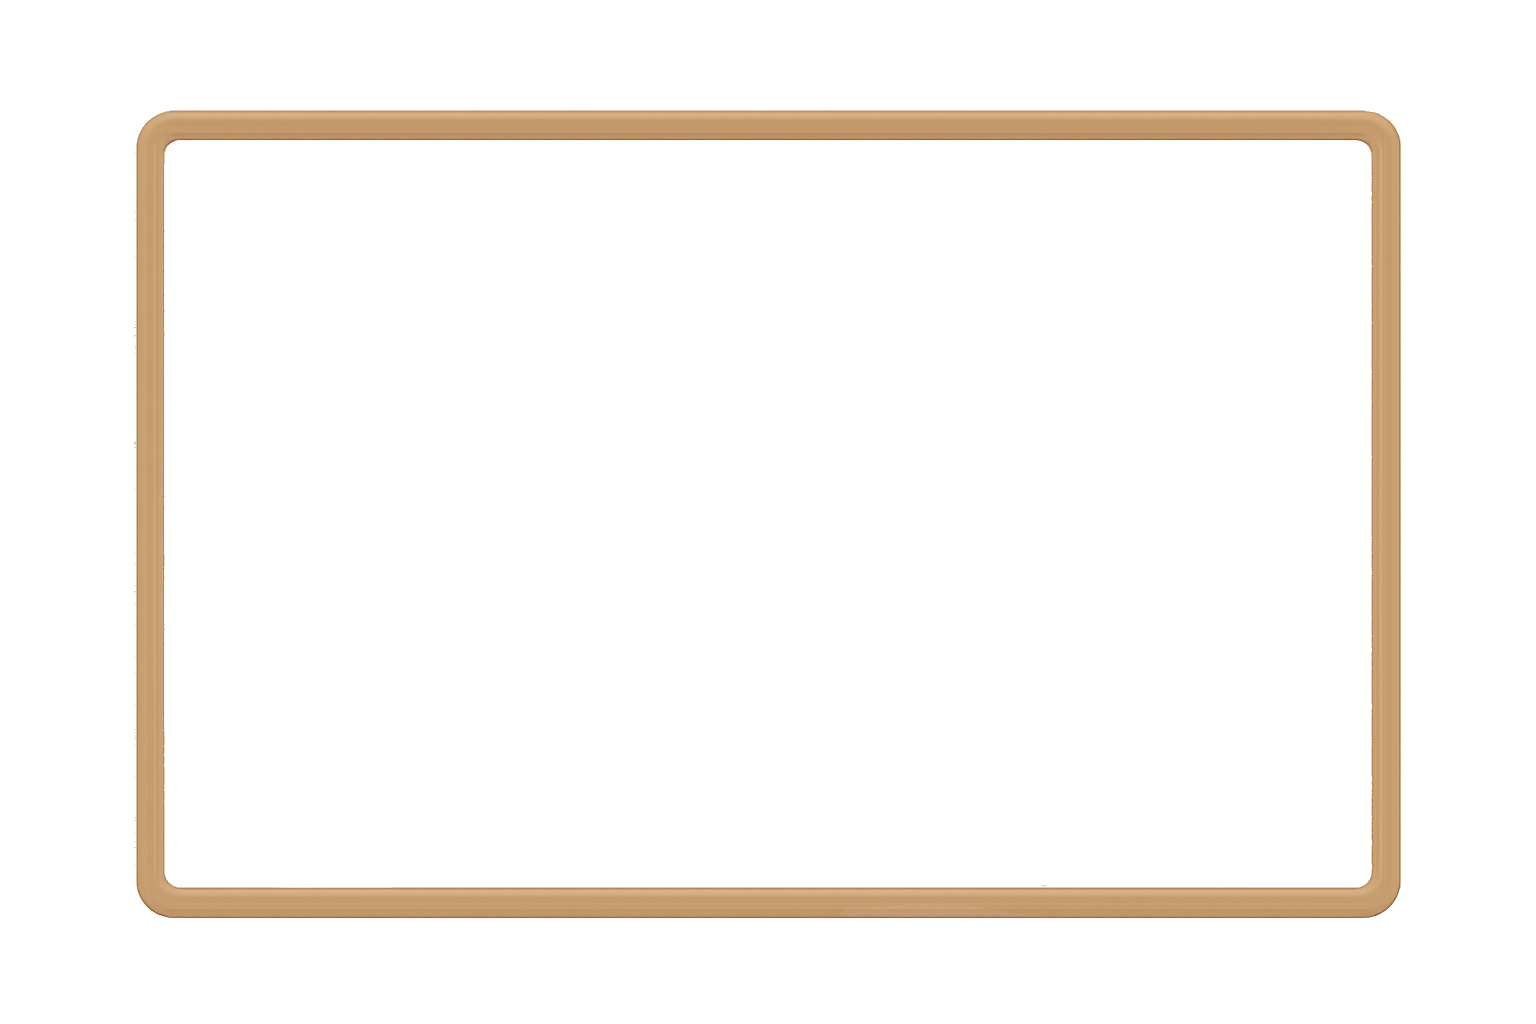
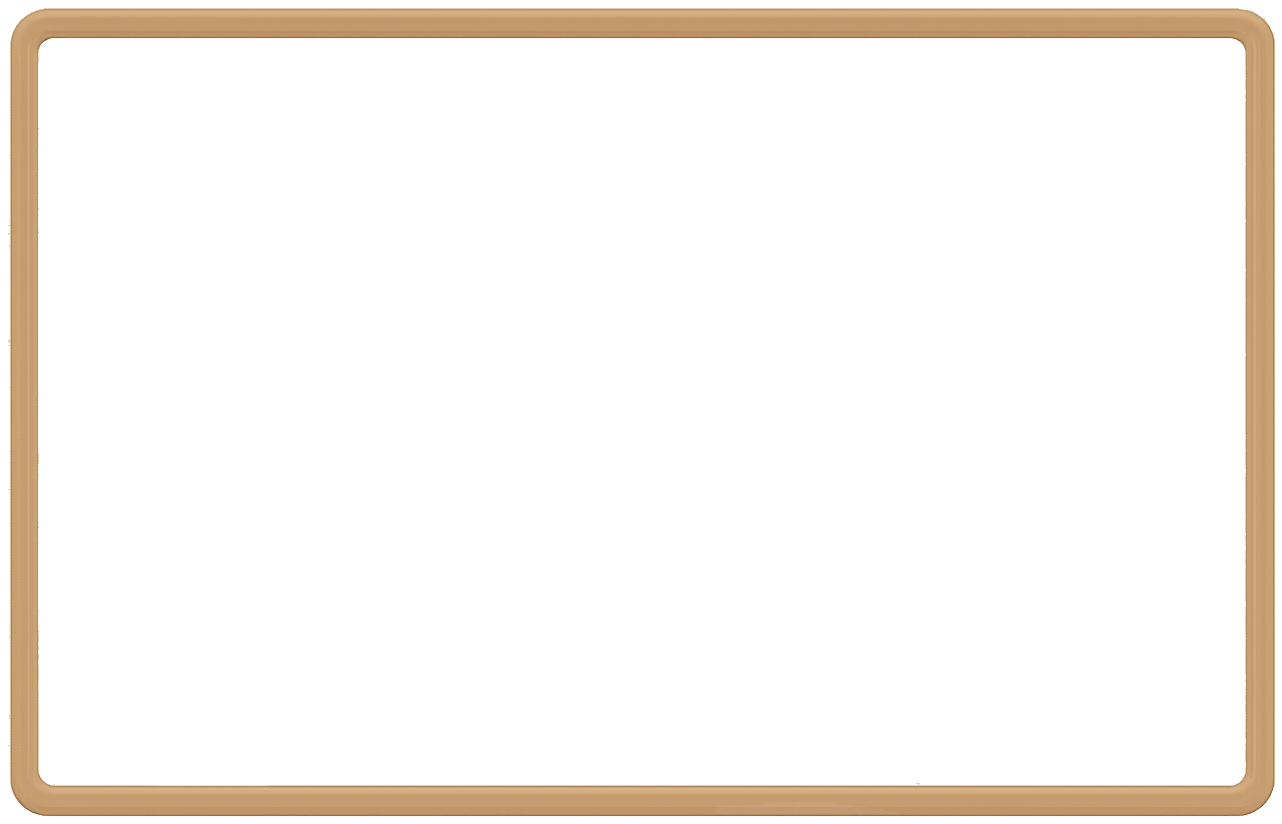
Adjusted the game window size based on current window size. Recipe Scroll not yet adjusted.

Changed region(s): [[0.0624, 0.091, 0.936, 0.9102], [0.0, 0.0, 0.9984, 1.0]]

diff --git a/style.css b/style.css
@@ -32,62 +32,79 @@ main {
   flex: 1;
   display: flex;
   justify-content: center;
-  align-items: flex-start;
-  gap: 20vw; /* was 400px */
+  align-items: center;
+  position: relative;
 }
 
-#gameCanvas {
-  border: 0.vw solid red;
-  border-radius: 0px; 
+#layoutShell {
   position: absolute;
   top: 50%;
   left: 50%;
+  width: 1710px;
+  height: 824px;
   transform: translate(-50%, -50%);
-  display: flex;
+  --shell-scale: 1;
+}
+
+#gameShell {
+  position: absolute;
+  top: 0;
+  left: 0;
+  width: 1282px;
+  height: 824px;
+}
+
+#gameCanvas {
+  border: 0 solid red;
+  border-radius: 0px;
+  position: absolute;
+  top: 33px;
+  left: 33px;
+  width: 1218px;
+  height: 757px;
+  display: block;
   z-index: 1;
 }
 
 #recipeScroll {
-  position: relative;
-  left: 40.5vw; /* was 800px */
-  top: 15%;
-  width: 10vw; /* was 300px */
+  position: absolute;
+  left: 1290px;
+  top: 24px;
+  width: 420px;
   z-index: 10;
 
   display: none;
   flex-direction: column;
   align-items: center;
-  transform: scale(1);
+  pointer-events: none;
 }
 
 #scrollImage {
-  width: 22vw; /* was 140% of container */
+  width: 100%;
   height: auto;
   display: block;
 }
 
 #recipeText {
-  width: 130%;
-  margin-top: -21.5vw; /* was -420px */
+  position: absolute;
+  top: 108px;
+  left: 44px;
+  width: 330px;
+  max-height: 500px;
+  overflow: hidden;
   color: #4b2d0f;
   font-family: 'IM Fell English SC', 'Papyrus', fantasy;
-  font-size: 0.95vw; /* was 20px */
-  line-height: 1.2vw; /* was 25px */
+  font-size: clamp(13px, calc(29px * var(--shell-scale)), 34px);
+  line-height: clamp(16px, calc(33px * var(--shell-scale)), 38px);
   text-align: left;
-
-  display: flex;
-  flex-direction: column;
-  align-items: left;
-  gap: 0.01vw; /* was 12px */
 }
 
 #canvasFrame {
   position: absolute;
-  top: 50%;
-  left: 50%;
-  width: 1432px;
-  height: 1036px;
-  transform: translate(-50%, -50%);
+  top: 0;
+  left: 0;
+  width: 1282px;
+  height: 824px;
   pointer-events: none;
   z-index: 2; /* Ensure it's above the gameCanvas */
 }

diff --git a/main.js b/main.js
@@ -48,9 +48,20 @@ import CatchTimeImage from './assets/intro/catch-time-bubble.png';
 import QRCode, { create } from 'qrcode';
 
 const sizes = {
+  width: 1218,
+  height: 757,
+};
+const baseGameSize = {
   width: 1152,
   height: 768,
 };
+const gameCanvas = document.getElementById("gameCanvas");
+const layoutShell = document.getElementById("layoutShell");
+const layoutBaseSize = {
+  width: 1710,
+  height: 824,
+};
+const gameFrameBaseWidth = 1282;
 
 const speedDown = 50;
 const playerMovementSpeed = 250;
@@ -95,7 +106,6 @@ class GameScene extends Phaser.Scene {
     this.game_stop = true;
     this.gpt_output = false;
     this.endBubbleShown = false;
-
   }
 
   preload() {
@@ -165,8 +175,8 @@ class GameScene extends Phaser.Scene {
 
 
     //Create Clock
-    const clockX = 860
-    const clockY = 150;
+    const clockX = Math.round((860 / baseGameSize.width) * sizes.width);
+    const clockY = Math.round((150 / baseGameSize.height) * sizes.height);
 
     this.add.image(clockX, clockY, 'WallClock').setScale(0.9);
     this.hourHand = this.add.image(clockX, clockY, 'handle').setScale(0.04);
@@ -198,12 +208,16 @@ class GameScene extends Phaser.Scene {
     
       const centerX = this.cameras.main.centerX;
       const centerY = this.cameras.main.centerY;
+      const uiScaleX = sizes.width / baseGameSize.width;
+      const uiScaleY = sizes.height / baseGameSize.height;
+      const offsetX = (value) => Math.round(value * uiScaleX);
+      const offsetY = (value) => Math.round(value * uiScaleY);
       
       const intro_images = [
-        this.add.image(centerX -85, centerY - 260, 'watchClock').setScale(0.5),
-        this.add.image(centerX + 180, centerY - 250, 'clockArrow').setScale(0.45).setRotation(Phaser.Math.DegToRad(65)),
-        this.add.image(centerX+180, centerY + 40, 'arrowInstructions').setScale(0.45),
-        this.add.image(centerX-250, centerY+300, 'pressSpace').setScale(0.5)
+        this.add.image(centerX + offsetX(-60), centerY + offsetY(-275), 'watchClock').setScale(0.5),
+        this.add.image(centerX + offsetX(190), centerY + offsetY(-270), 'clockArrow').setScale(0.45).setRotation(Phaser.Math.DegToRad(65)),
+        this.add.image(centerX + offsetX(170), centerY + offsetY(55), 'arrowInstructions').setScale(0.45),
+        this.add.image(centerX + offsetX(-250), centerY + offsetY(300), 'pressSpace').setScale(0.5)
       ];
       
       // Set initial alpha to 0 (invisible)
@@ -588,7 +602,7 @@ class GameScene extends Phaser.Scene {
   
     // Update UI
     document.getElementById("recipeText").innerHTML = `
-      <div style="display: flex; gap: 16px; width: 100%;">
+      <div style="display: flex; gap: 10px; width: 100%;">
         <div class="recipe-col">${col1}</div>
         <div class="recipe-col">${col2}</div>
       </div>
@@ -617,10 +631,26 @@ const config = {
       //debug: true,
     },
   },
-  scene: [TitleScene,StoryScene,GameScene],
+  scene: [/*TitleScene,StoryScene,*/GameScene],
 };
 
 const game = new Phaser.Game(config);
+
+function updateGameShellScale() {
+  if (!layoutShell) return;
+
+  const scaleX = (window.innerWidth * 0.9) / layoutBaseSize.width;
+  const scaleY = (window.innerHeight * 0.9) / layoutBaseSize.height;
+  const scale = Math.min(scaleX, scaleY);
+  const centerOffsetX = ((layoutBaseSize.width - gameFrameBaseWidth) / 2) * scale;
+
+  layoutShell.style.left = `calc(50% + ${centerOffsetX}px)`;
+  layoutShell.style.transform = `translate(-50%, -50%) scale(${scale})`;
+  layoutShell.style.setProperty("--shell-scale", scale.toString());
+}
+
+updateGameShellScale();
+window.addEventListener("resize", updateGameShellScale);
 
 
 function generateQRCode(recipe) {

diff --git a/index.html b/index.html
@@ -16,11 +16,15 @@
       
     </header>
     <main>
-      <canvas id="gameCanvas"></canvas>
-      <img src="assets/game-frame.png" alt="Frame" id="canvasFrame" />
-      <div id="recipeScroll">
-        <img src="assets/recipe-scroll.png" alt="Scroll" id="scrollImage" />
-        <div id="recipeText">
+      <div id="layoutShell">
+        <div id="gameShell">
+          <canvas id="gameCanvas"></canvas>
+          <img src="assets/game-frame.png" alt="Frame" id="canvasFrame" />
+        </div>
+        <div id="recipeScroll">
+          <img src="assets/recipe-scroll.png" alt="Scroll" id="scrollImage" />
+          <div id="recipeText">
+          </div>
         </div>
       </div>
 <!-- Game Over Popup -->